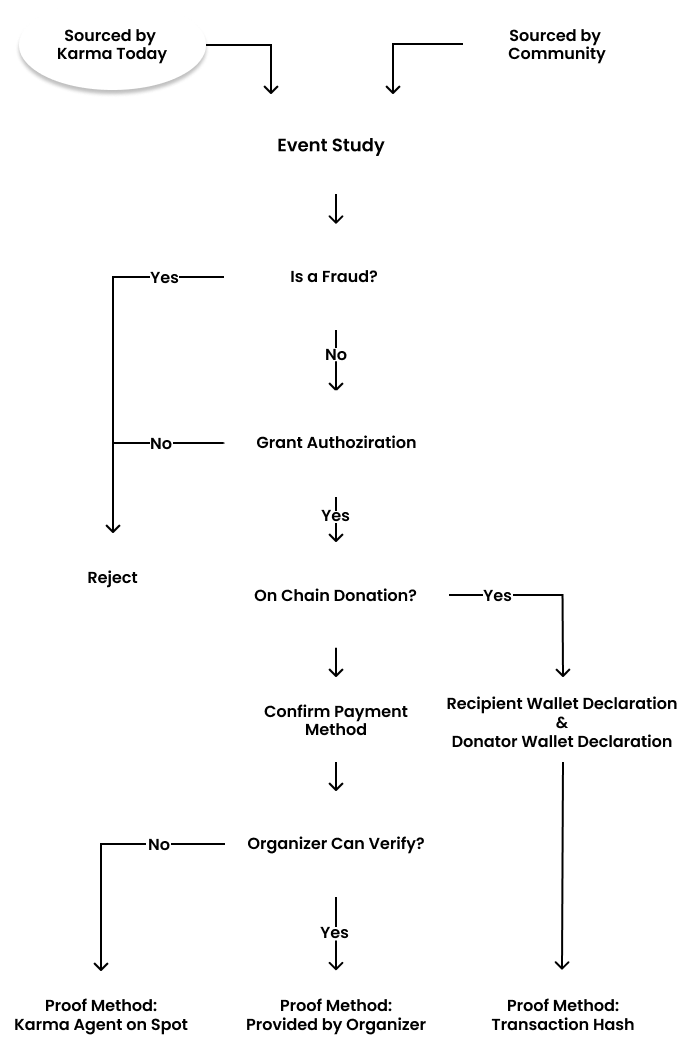
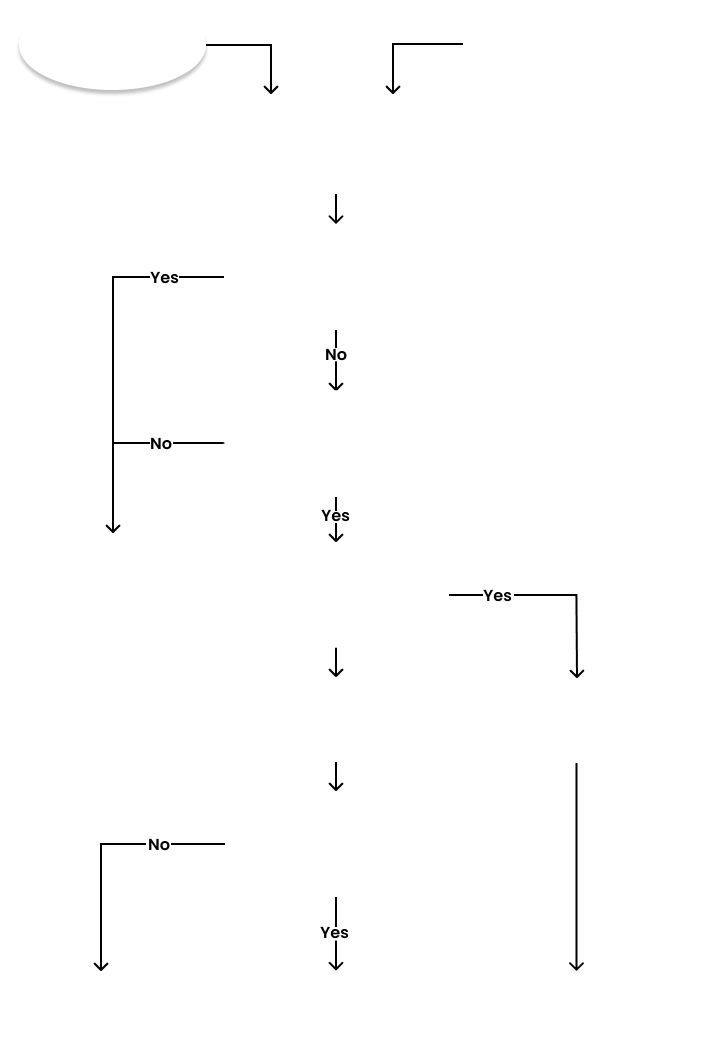
change white text

diff --git a/faq/index.css b/faq/index.css
@@ -262,10 +262,13 @@ main{
     height: auto;
     visibility: hidden;
     display: none;
+
 }
 .faq-box .faq-box_content .answer.active {
     visibility: visible;
-    display: block;
+    display: flex !important;
+    flex-direction: column;
+    align-items: center;
 }
 .faq-box .faq-box_content .accordion {
     position: absolute;
@@ -362,7 +365,6 @@ main{
 
 .close-fullscreen-btn {
     max-width: 15%;
-    background-color: rgba(255, 255, 255, 0.8);
     border: none;
     border-radius: 4px;
     padding: 4px 16px;
@@ -371,11 +373,16 @@ main{
     cursor: pointer;
     transition: all 0.3s ease;
     z-index: 10000;
+    background: unset;
+    background: #fff;
+    color: #000;
+    border: 1px solid rgba(255, 255, 255, 0.4);
 }
 
 .close-fullscreen-btn:hover {
-    background-color: #fff;
     transform: translateY(-2px);
+    background: rgba(255, 255, 255, 0.45);
+    color: #fff;
 }
 
 /* Diagram button styling */
@@ -603,6 +610,14 @@ main{
 }
 
 @media (max-width: 640px) {
+    .diagram-button{
+        padding: 4px 10px;
+
+        margin-top: 10px;
+    }
+    .diagram-display {
+        justify-content: center;
+    }
     .question-display {
         font-size: 16px;
         padding: 8px 20px;
@@ -623,6 +638,10 @@ main{
     .faq-box .faq-box_content .accordion .show-answer svg {
         width: 14px;
         height: 14px;
+    }
+    .faq-box .faq-box_content .answer.active{
+        padding-top: 10px !important;
+        padding-bottom: 10px !important;
     }
     .category-nav .close-btn_nav {
         display: block; 

diff --git a/style.css b/style.css
@@ -319,6 +319,17 @@ tr:nth-child(even) {
 .hidden{
     display: none;
 }
+@media (min-width: 1920px){
+    #header .logo{
+        width: 105px;
+    } 
+}
+@media (min-width: 1440px){
+    #header .logo{
+        width: 100px;
+        height: 80px;
+    } 
+}
 @media (max-width: 1440px){
     #header .nav .nav-language #lang-toggle{
         font-size: 20px;
@@ -356,6 +367,9 @@ tr:nth-child(even) {
     }
 }
 @media (max-width: 1200px) {
+    #header .logo {
+        width: 70px;
+    }
     main{
         padding-top: 42px;
     }
@@ -465,6 +479,9 @@ tr:nth-child(even) {
     }
 }
 @media (max-width: 768px) {
+    #header .logo{
+        width: 60px;
+    }
     .mountain-container{
         padding: 30px 0 0;
     }
@@ -541,7 +558,7 @@ tr:nth-child(even) {
         font-size: 14px;
     }
     #header .logo{
-        width: 55px;
+        width: 50px;
     }
     .mountain .road{
         left: 0%;
@@ -634,11 +651,11 @@ tr:nth-child(even) {
         font-size: 16px !important;
     }
     #header{
-        height: 55px;
+        height: 50px;
         padding: 0 20px 0 20px;
     }
     #header .logo{
-        width: 50px;
+        width: 40px;
         display: flex;
         align-items: center;
         padding-top: 0;
